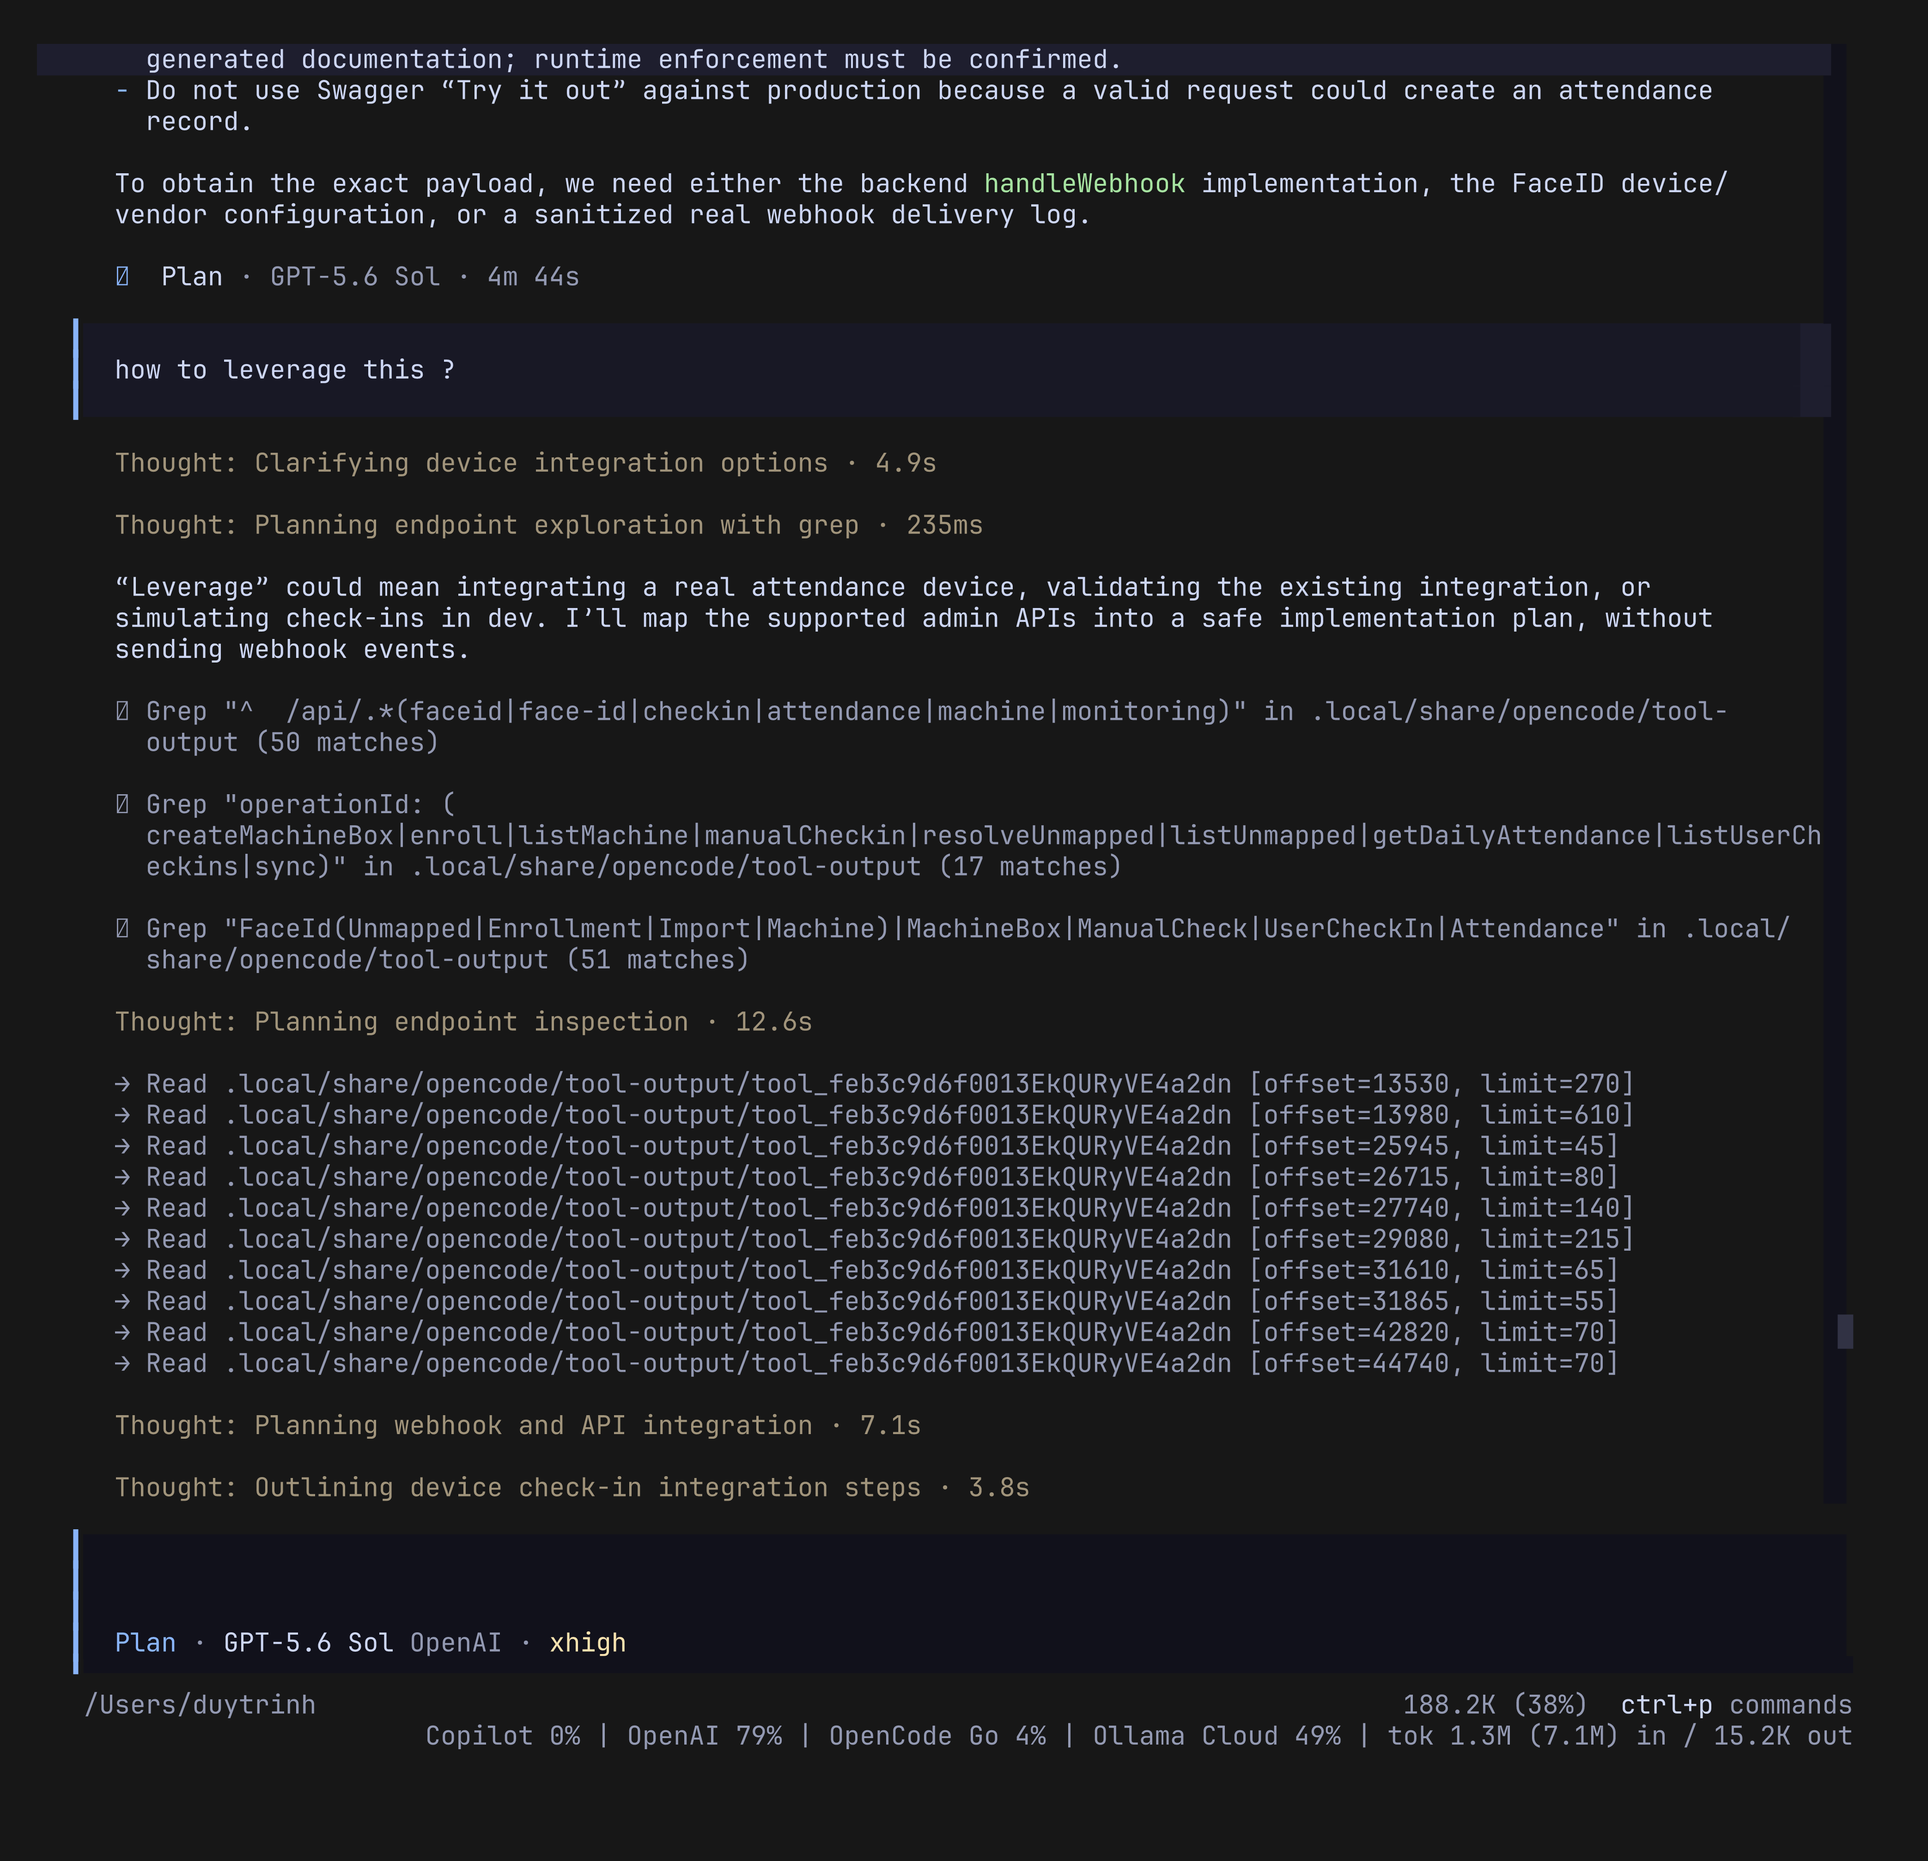
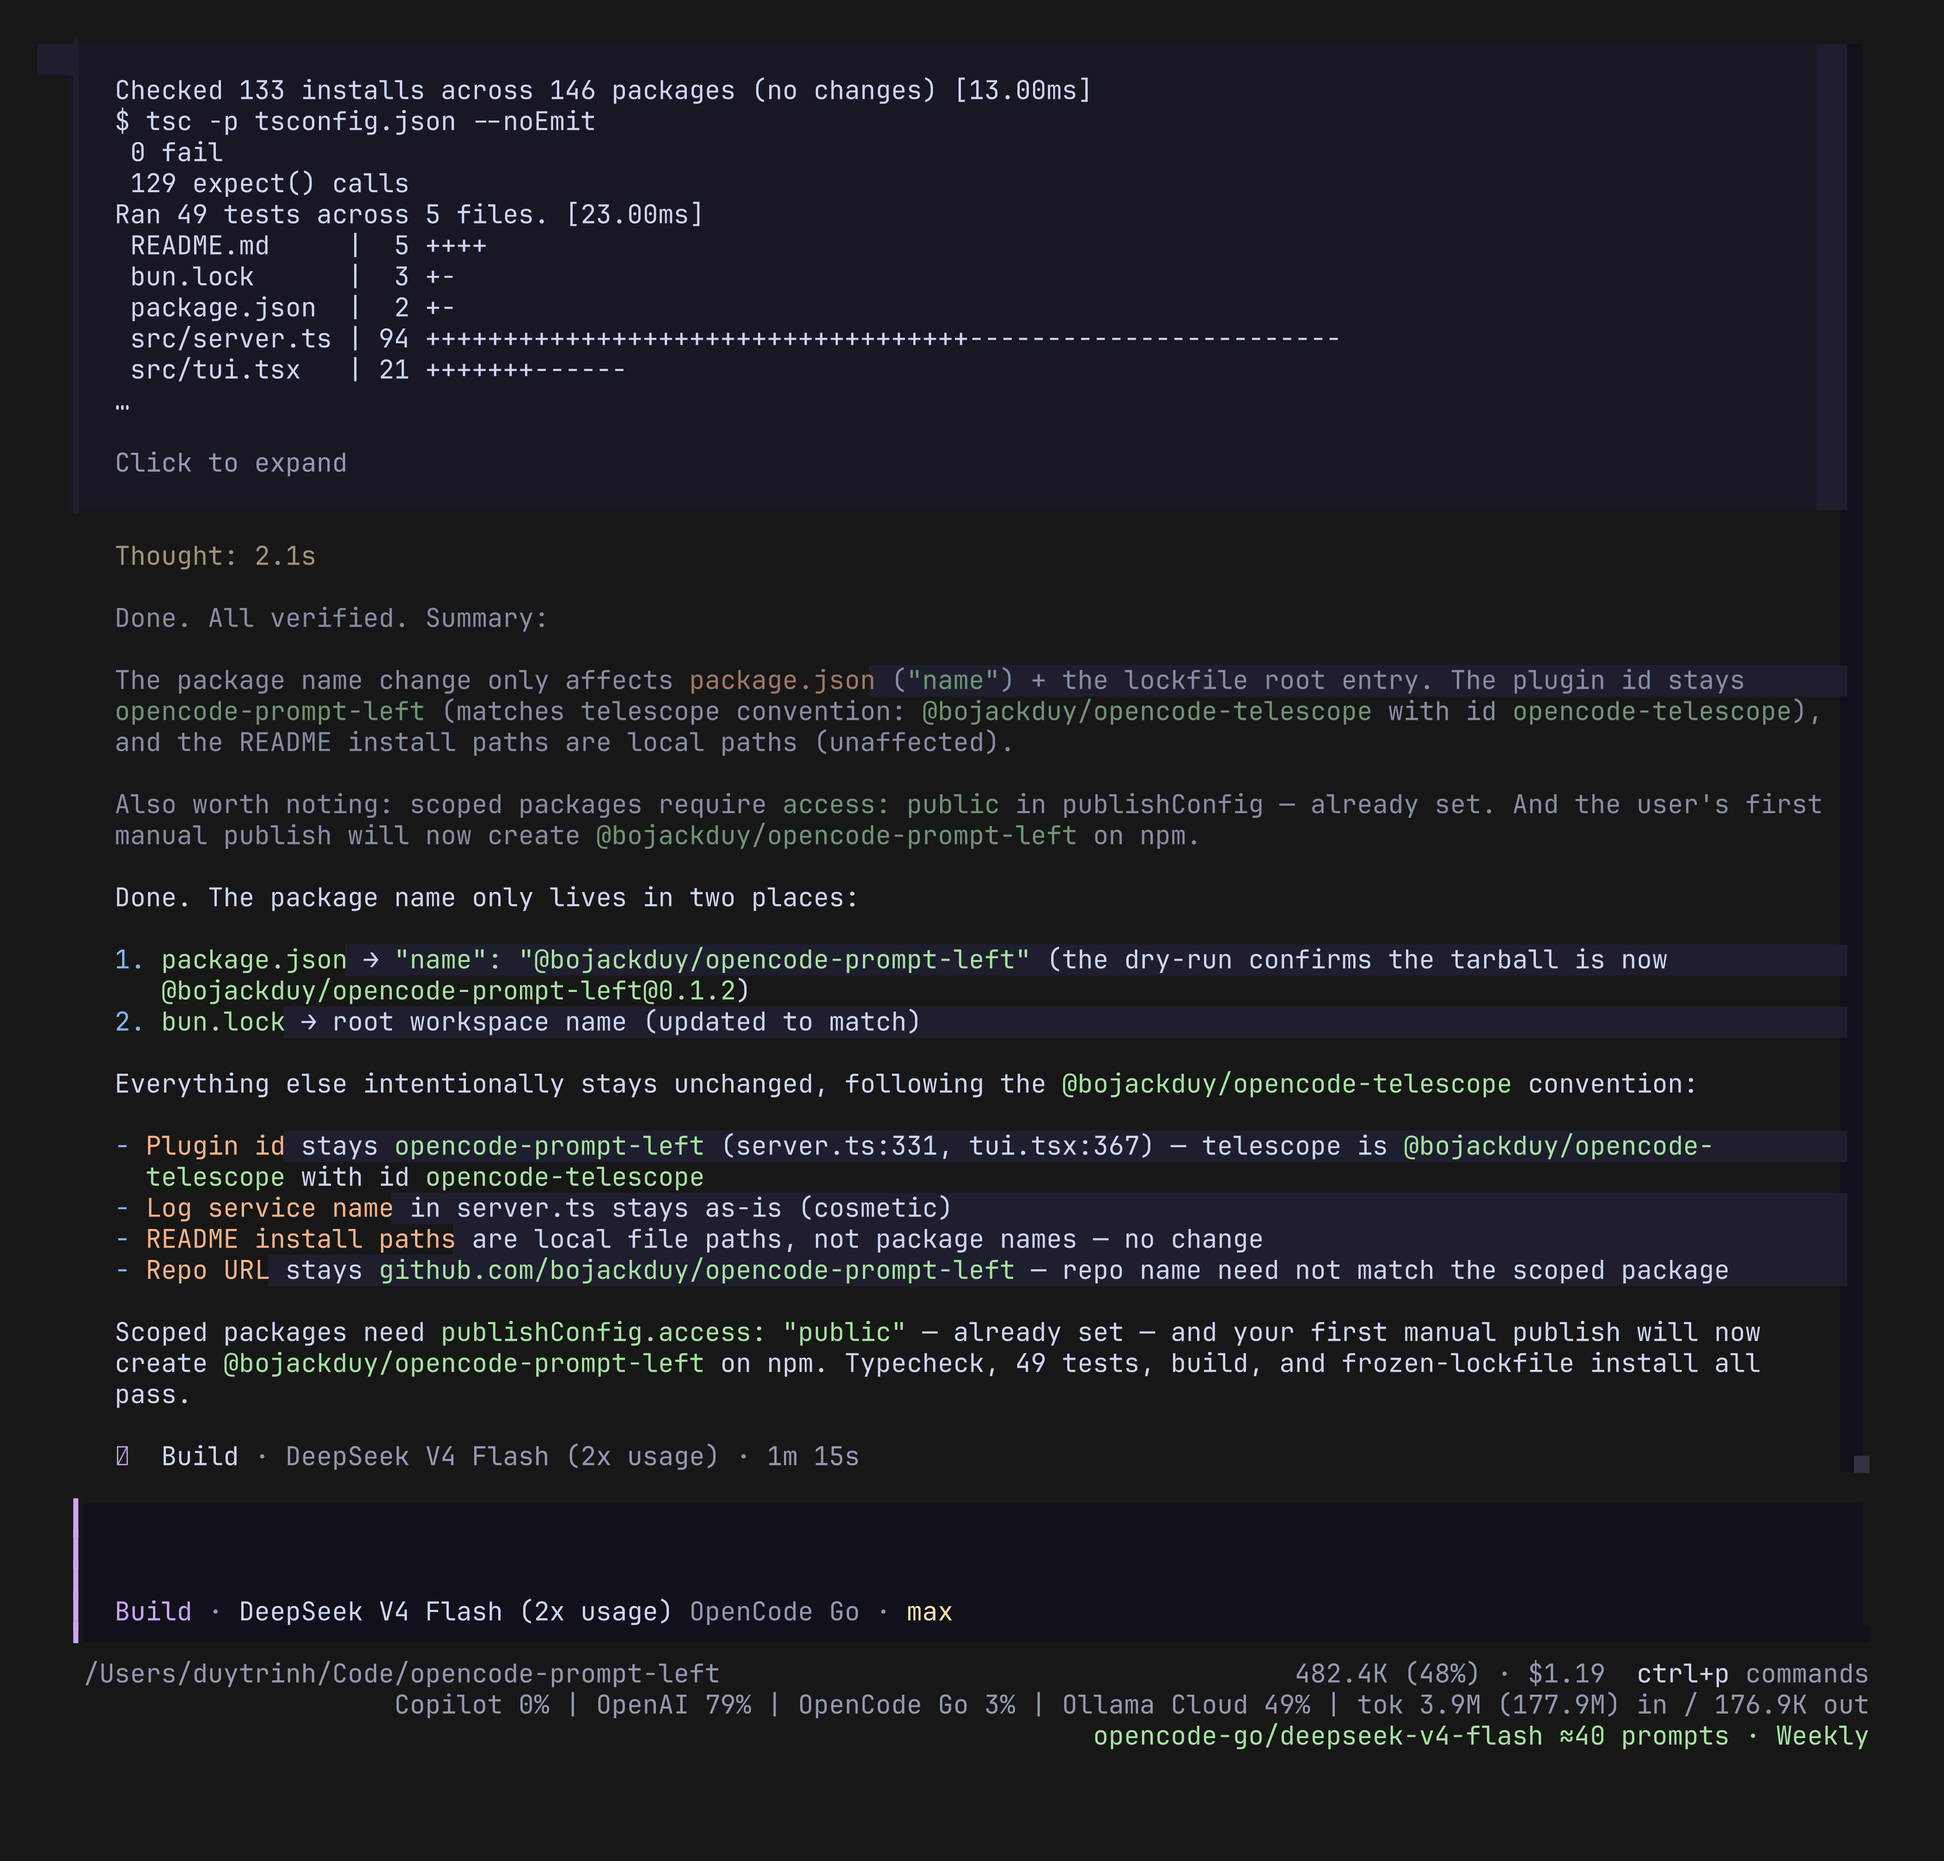
update image and re-calibrating

diff --git a/src/server.ts b/src/server.ts
@@ -1,7 +1,7 @@
 import type { Event } from "@opencode-ai/sdk"
 import type { Plugin } from "@opencode-ai/plugin"
-import { watch, mkdirSync } from "node:fs"
-import { basename, dirname, join } from "node:path"
+import { watch, mkdirSync, statSync } from "node:fs"
+import { dirname, join } from "node:path"
 import { Telemetry } from "./telemetry"
 import { readQuotaSnapshot } from "./quota"
 import { loadBudgets } from "./budget"
@@ -24,6 +24,7 @@ const POLL_INTERVAL_MS = 60_000
 const RECOMPUTE_DEBOUNCE_MS = 1_000
 const EXTERNAL_EWMA_ALPHA = 0.3
 const SELECTION_DEBOUNCE_MS = 300
+const BRIDGE_POLL_INTERVAL_MS = 5_000
 const COMPACTION_BUFFER = 20_000
 const MAX_WINDOW_OBSERVATIONS = 24
 
@@ -60,26 +61,36 @@ const plugin: Plugin = async ({ client }, _options) => {
   let quota = readQuotaSnapshot()
   let lastSnapAt = 0
   let pollTimer: ReturnType<typeof setInterval> | undefined
+  let bridgePollTimer: ReturnType<typeof setInterval> | undefined
   let recomputeTimer: ReturnType<typeof setTimeout> | undefined
-  let selectionWatcher: ReturnType<typeof watch> | undefined
-  let selectionTimer: ReturnType<typeof setTimeout> | undefined
-  let activeWatcher: ReturnType<typeof watch> | undefined
-  let activeTimer: ReturnType<typeof setTimeout> | undefined
+  let dirWatcher: ReturnType<typeof watch> | undefined
+  let bridgeTimer: ReturnType<typeof setTimeout> | undefined
+  let lastSelKey = ""
+  let lastActiveKey = ""
   const pluginCleanup: (() => void)[] = []
 
   function modelKey(providerID: string, modelID: string): string {
     return `${providerID}/${modelID}`
   }
 
-  function applySelection() {
+  function applySelection(): boolean {
     const sel = readJson<TuiSelection>(paths.selection)
-    if (!sel?.providerID) return
-    telemetry.overrideSelection({ provider: sel.providerID, model: sel.modelID })
+    const key = sel ? JSON.stringify(sel) : ""
+    if (key === lastSelKey) return false
+    lastSelKey = key
+    if (sel?.providerID) {
+      telemetry.overrideSelection({ provider: sel.providerID, model: sel.modelID })
+      return true
+    }
+    return false
   }
 
-  function applyActive() {
+  function applyActive(): boolean {
     const active = readJson<ActiveFile>(paths.active)
-    if (!active?.sessionID) return
+    const key = active ? JSON.stringify(active) : ""
+    if (key === lastActiveKey) return false
+    lastActiveKey = key
+    if (!active?.sessionID) return false
     telemetry.setActiveSession(active.sessionID)
     if (active.model?.providerID && active.model?.modelID) {
       telemetry.noteBaseline(active.sessionID, {
@@ -88,35 +99,35 @@ const plugin: Plugin = async ({ client }, _options) => {
         agent: active.agent,
       })
     }
+    return true
+  }
+
+  function refreshBridge() {
+    const changed = applySelection() || applyActive()
+    if (changed) {
+      saveHistory()
+      recompute()
+    }
   }
 
   function watchFiles() {
     mkdirSync(paths.dir, { recursive: true })
-    applySelection()
-    applyActive()
+    refreshBridge()
     try {
-      selectionWatcher = watch(paths.dir, (_event, filename) => {
-        if (!filename || basename(String(filename)) !== "selection.json") return
-        if (selectionTimer) clearTimeout(selectionTimer)
-        selectionTimer = setTimeout(() => {
-          selectionTimer = undefined
-          applySelection()
-          recompute()
-        }, SELECTION_DEBOUNCE_MS)
-      })
-      activeWatcher = watch(paths.dir, (_event, filename) => {
-        if (!filename || basename(String(filename)) !== "active.json") return
-        if (activeTimer) clearTimeout(activeTimer)
-        activeTimer = setTimeout(() => {
-          activeTimer = undefined
-          applyActive()
-          saveHistory()
-          recompute()
+      dirWatcher = watch(paths.dir, () => {
+        if (bridgeTimer) clearTimeout(bridgeTimer)
+        bridgeTimer = setTimeout(() => {
+          bridgeTimer = undefined
+          refreshBridge()
         }, SELECTION_DEBOUNCE_MS)
       })
     } catch (err) {
       log(`state watcher failed: ${String(err)}`)
     }
+    bridgePollTimer = setInterval(refreshBridge, BRIDGE_POLL_INTERVAL_MS)
+    pluginCleanup.push(() => {
+      if (bridgePollTimer) clearInterval(bridgePollTimer)
+    })
   }
 
   function log(msg: string) {
@@ -260,12 +271,21 @@ const plugin: Plugin = async ({ client }, _options) => {
   }
 
   function watchConfig() {
-    try {
-      const configWatcher = watch(dirname(CONFIG_PATH), (_event, filename) => {
-        if (!filename || basename(String(filename)) !== "prompt-left.json") return
+    let lastMtime = 0
+    const reload = () => {
+      try {
+        const stat = statSync(CONFIG_PATH)
+        if (stat.mtimeMs === lastMtime) return
+        lastMtime = stat.mtimeMs
         budgets = loadBudgets()
         recompute()
-      })
+      } catch {
+        lastMtime = 0
+      }
+    }
+    reload()
+    try {
+      const configWatcher = watch(dirname(CONFIG_PATH), () => reload())
       pluginCleanup.push(() => configWatcher.close())
     } catch {}
   }
@@ -293,10 +313,8 @@ const plugin: Plugin = async ({ client }, _options) => {
     async dispose() {
       if (pollTimer) clearInterval(pollTimer)
       if (recomputeTimer) clearTimeout(recomputeTimer)
-      if (selectionTimer) clearTimeout(selectionTimer)
-      if (activeTimer) clearTimeout(activeTimer)
-      if (selectionWatcher) selectionWatcher.close()
-      if (activeWatcher) activeWatcher.close()
+      if (bridgeTimer) clearTimeout(bridgeTimer)
+      if (dirWatcher) dirWatcher.close()
       for (const cleanup of pluginCleanup) {
         try {
           cleanup()

diff --git a/src/tui.tsx b/src/tui.tsx
@@ -3,13 +3,14 @@ import type { JSX } from "@opentui/solid"
 import type { TuiPlugin, TuiPluginModule } from "@opencode-ai/plugin/tui"
 import { Show, For, createMemo, createSignal, onCleanup, onMount } from "solid-js"
 import { readFileSync, watch, writeFileSync, renameSync, mkdirSync } from "node:fs"
-import { basename, dirname, join } from "node:path"
+import { dirname, join } from "node:path"
 import { statePaths, workspaceKey, type ActiveFile, type EstimateFile, type TuiSelection } from "./shared"
 
 const POLL_INTERVAL_MS = 2_500
 const SLOT_ORDER = 95
 const SELECTION_DEBOUNCE_MS = 300
 const ACTIVE_WRITE_MS = 2_500
+const MODEL_POLL_INTERVAL_MS = 5_000
 
 const paths = statePaths(workspaceKey(process.cwd()))
 
@@ -82,18 +83,20 @@ function watchModelSelection(api: Parameters<TuiPlugin>[0]): () => void {
   push()
   let timer: ReturnType<typeof setTimeout> | undefined
   let watcher: ReturnType<typeof watch> | undefined
+  const poll = () => {
+    if (timer) clearTimeout(timer)
+    timer = setTimeout(() => {
+      timer = undefined
+      push()
+    }, SELECTION_DEBOUNCE_MS)
+  }
   try {
-    watcher = watch(api.state.path.state, (_event, filename) => {
-      if (!filename || basename(String(filename)) !== "model.json") return
-      if (timer) clearTimeout(timer)
-      timer = setTimeout(() => {
-        timer = undefined
-        push()
-      }, SELECTION_DEBOUNCE_MS)
-    })
+    watcher = watch(api.state.path.state, () => poll())
   } catch {}
+  const pollTimer = setInterval(poll, MODEL_POLL_INTERVAL_MS)
   return () => {
     if (timer) clearTimeout(timer)
+    clearInterval(pollTimer)
     watcher?.close()
   }
 }

diff --git a/README.md b/README.md
@@ -63,6 +63,11 @@ model picker → TUI writes ~/.local/state/opencode/model.json (recent[0] = sele
              → prompt-left server plugin watches it → overrideSelection → recompute
 ```
 
+Both sides watch their files with a **poll safety net** (5s) in addition to
+fs.watch — even if a watch event is missed or coalesced, the next poll picks
+the change up and deduplicates, so nothing is lost and unchanged files never
+trigger recomputes.
+
 | You do this | What fires | Result |
 |---|---|---|
 | Pick a model in the picker | `model.json` write → `selection.json` → server watcher → `overrideSelection` | ✅ recompute in <1s, no prompt needed |
